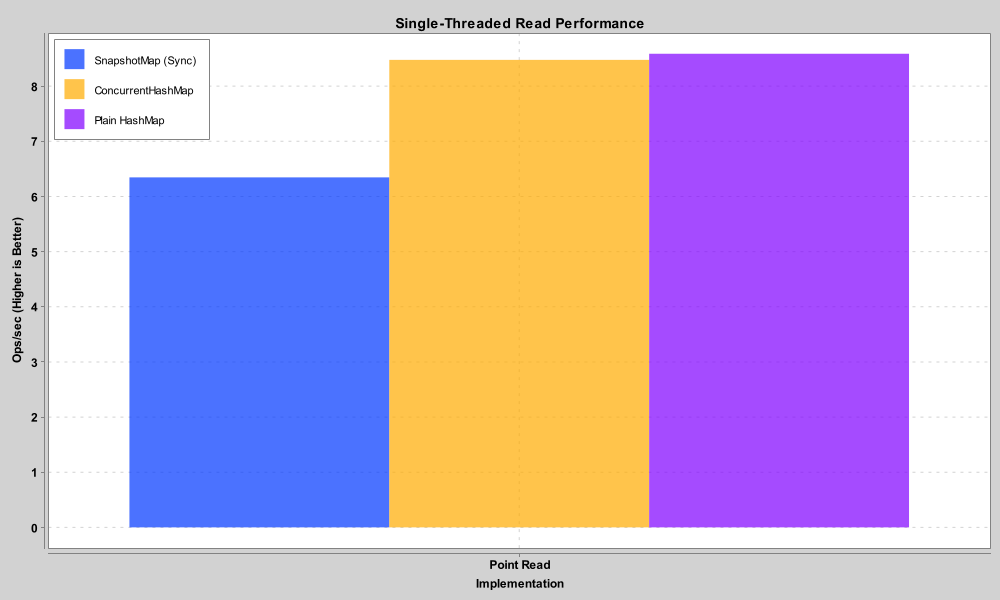
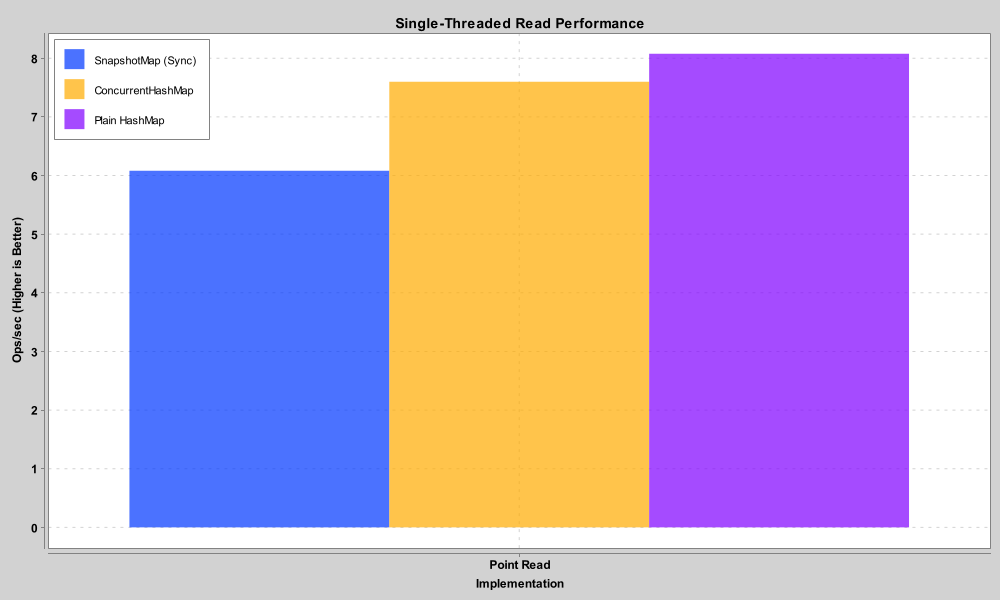
Enhance snapshot handling in `SnapshotMap` and `AbstractSnapshotMap`
- Added `getOrComputeSnapshot` implementation to optimize snapshot creation and reduce contention across `SnapshotMap` implementations.
- Introduced inner classes (`SnapshotKeySet`, `SnapshotValueCollection`, `SnapshotEntrySet`) for better snapshot consistency and thread safety.
- Updated `SuspendingSnapshotMap` with optimized spin-wait mechanism for snapshot creation.
- Simplified conditional statements in `put` and `remove` methods for improved readability.
- Refreshed benchmark result images to reflect recent enhancements (`scalability_results.png`, `single_iter_results.png`, `single_read_results.png`).

diff --git a/src/main/kotlin/gg/aquatic/snapshotmap/AbstractSnapshotMapBase.kt b/src/main/kotlin/gg/aquatic/snapshotmap/AbstractSnapshotMapBase.kt
@@ -24,17 +24,13 @@ sealed class AbstractSnapshotMap<K : Any, V : Any>(
 
     override fun put(key: K, value: V): V? {
         val prev = internalMap.put(key, value)
-        if (prev != value) {
-            invalidate()
-        }
+        if (prev != value) invalidate()
         return prev
     }
 
     override fun remove(key: K): V? {
         val prev = internalMap.remove(key)
-        if (prev != null) {
-            invalidate()
-        }
+        if (prev != null) invalidate()
         return prev
     }
 
@@ -50,5 +46,81 @@ sealed class AbstractSnapshotMap<K : Any, V : Any>(
 
     override fun remove(key: K, value: V): Boolean {
         return internalMap.remove(key, value).also { if (it) invalidate() }
+    }
+
+    override val keys: MutableSet<K> get() = SnapshotKeySet()
+    override val values: MutableCollection<V> get() = SnapshotValueCollection()
+    override val entries: MutableSet<MutableMap.MutableEntry<K, V>> get() = SnapshotEntrySet()
+
+    internal abstract fun getOrComputeSnapshot(): Snapshot
+
+    @Suppress("UNCHECKED_CAST")
+    internal fun createSnapshotUnderLock(): Snapshot {
+        val startVersion = version
+        val size = internalMap.size
+        val ks = arrayOfNulls<Any>(size)
+        val vs = arrayOfNulls<Any>(size)
+
+        var i = 0
+        for ((k, v) in internalMap) {
+            if (i >= size) break
+            ks[i] = k
+            vs[i] = v
+            i++
+        }
+
+        val finalKs = if (i < size) ks.copyOf(i) else ks
+        val finalVs = if (i < size) vs.copyOf(i) else vs
+
+        val newSnapshot = Snapshot(finalKs as Array<Any?>, finalVs as Array<Any?>, startVersion)
+        if (startVersion == version) {
+            snapshot = newSnapshot
+        }
+        return newSnapshot
+    }
+
+    private inner class SnapshotKeySet : MutableSet<K> by internalMap.keys {
+        override fun iterator(): MutableIterator<K> {
+            val snap = getOrComputeSnapshot()
+            return object : MutableIterator<K> {
+                private var index = 0
+                override fun hasNext() = index < snap.keys.size
+                override fun next() = snap.keys[index++] as K
+                override fun remove() = this@AbstractSnapshotMap.remove(snap.keys[index - 1] as K).let { }
+            }
+        }
+    }
+
+    private inner class SnapshotValueCollection : MutableCollection<V> by internalMap.values {
+        override fun iterator(): MutableIterator<V> {
+            val snap = getOrComputeSnapshot()
+            return object : MutableIterator<V> {
+                private var index = 0
+                override fun hasNext() = index < snap.values.size
+                override fun next() = snap.values[index++] as V
+                override fun remove() = throw UnsupportedOperationException()
+            }
+        }
+    }
+
+    private inner class SnapshotEntrySet : MutableSet<MutableMap.MutableEntry<K, V>> by internalMap.entries {
+        override fun iterator(): MutableIterator<MutableMap.MutableEntry<K, V>> {
+            val snap = getOrComputeSnapshot()
+            return object : MutableIterator<MutableMap.MutableEntry<K, V>> {
+                private var index = 0
+                override fun hasNext() = index < snap.keys.size
+                override fun next() = SnapshotEntry(snap.keys[index] as K, snap.values[index++] as V)
+                override fun remove() = this@AbstractSnapshotMap.remove(snap.keys[index - 1] as K).let { }
+            }
+        }
+    }
+
+    private inner class SnapshotEntry(override val key: K, override var value: V) : MutableMap.MutableEntry<K, V> {
+        override fun setValue(newValue: V): V {
+            val old = value
+            this@AbstractSnapshotMap[key] = newValue
+            value = newValue
+            return old
+        }
     }
 }

diff --git a/src/main/kotlin/gg/aquatic/snapshotmap/SuspendingSnapshotMap.kt b/src/main/kotlin/gg/aquatic/snapshotmap/SuspendingSnapshotMap.kt
@@ -11,6 +11,33 @@ class SuspendingSnapshotMap<K : Any, V : Any>(
     @PublishedApi
     internal val mutex = Mutex()
 
+    /**
+     * Bridges the non-suspending Map API (keys, values, etc.) to the Mutex.
+     * Since we can't suspend here, we use a loop with tryLock.
+     */
+    override fun getOrComputeSnapshot(): Snapshot {
+        val current = snapshot
+        if (current != null) return current
+
+        // Spin-wait/Busy-wait on the mutex.
+        // In a SnapshotMap, snapshot creation is fast (just array copying),
+        // so this is more efficient than runBlocking.
+        while (true) {
+            val s = snapshot
+            if (s != null) return s
+
+            if (mutex.tryLock()) {
+                try {
+                    snapshot?.let { return it }
+                    return createSnapshotUnderLock()
+                } finally {
+                    mutex.unlock()
+                }
+            }
+            Thread.onSpinWait()
+        }
+    }
+
     @Suppress("UNCHECKED_CAST")
     suspend inline fun forEachSuspended(crossinline action: suspend (K, V) -> Unit) {
         val current = snapshot

diff --git a/src/main/kotlin/gg/aquatic/snapshotmap/SnapshotMap.kt b/src/main/kotlin/gg/aquatic/snapshotmap/SnapshotMap.kt
@@ -7,6 +7,14 @@ class SnapshotMap<K : Any, V : Any>(
     internalMap: ConcurrentHashMap<K, V> = ConcurrentHashMap()
 ) : AbstractSnapshotMap<K, V>(internalMap) {
 
+    override fun getOrComputeSnapshot(): Snapshot {
+        val current = snapshot
+        if (current != null) return current
+        return synchronized(this) {
+            snapshot ?: createSnapshotUnderLock()
+        }
+    }
+
     @Suppress("UNCHECKED_CAST")
     override fun forEach(action: BiConsumer<in K, in V>) {
         val current = snapshot
@@ -34,7 +42,7 @@ class SnapshotMap<K : Any, V : Any>(
             val tempKeys = ArrayList<Any?>(internalMap.size)
             val tempValues = ArrayList<Any?>(internalMap.size)
 
-            internalMap.forEach { k, v ->
+            internalMap.forEach { (k, v) ->
                 tempKeys.add(k)
                 tempValues.add(v)
                 action.accept(k, v)
